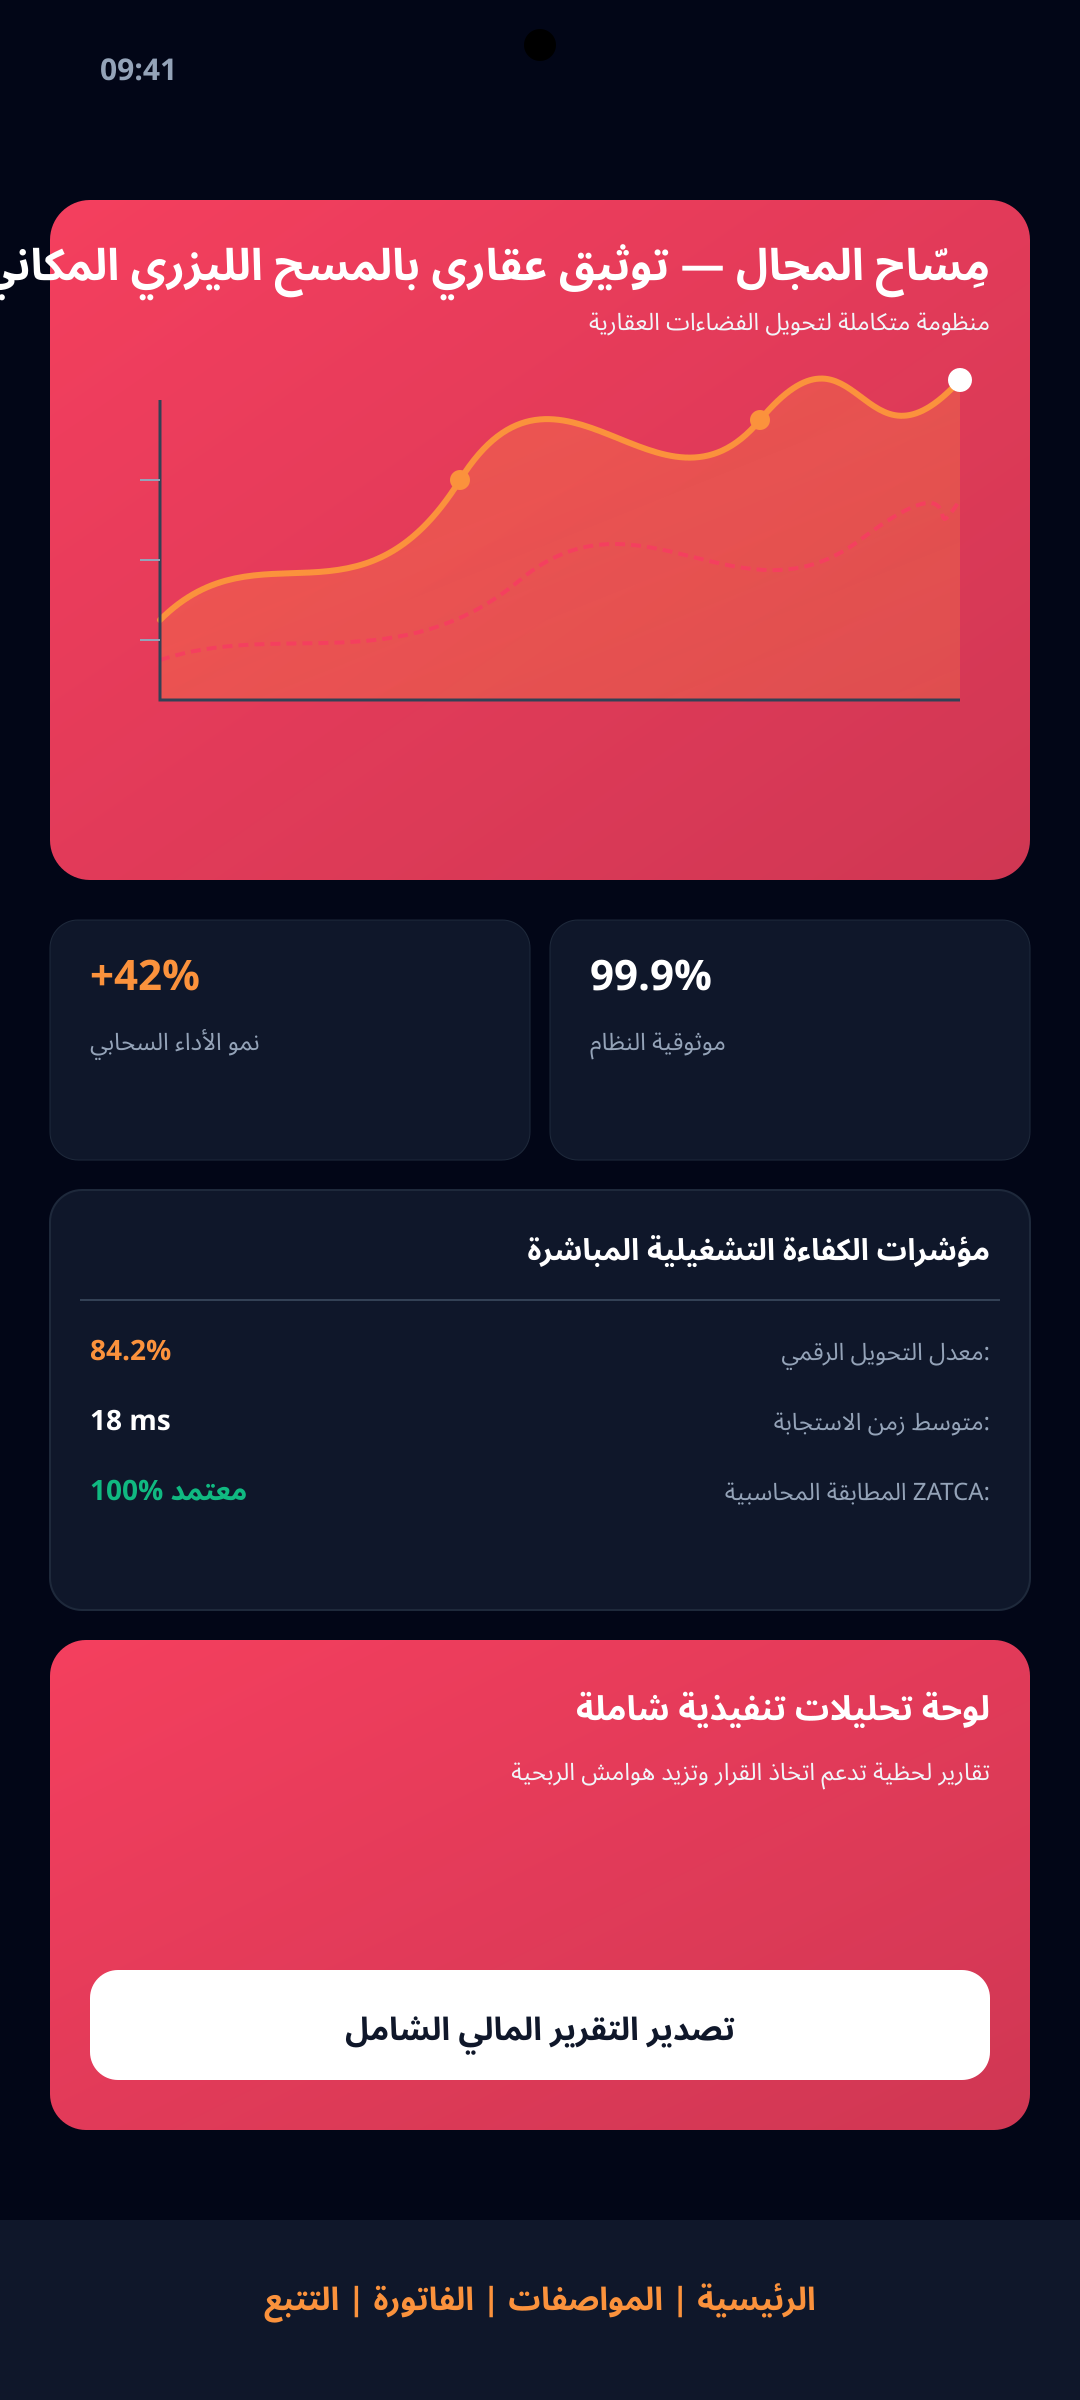
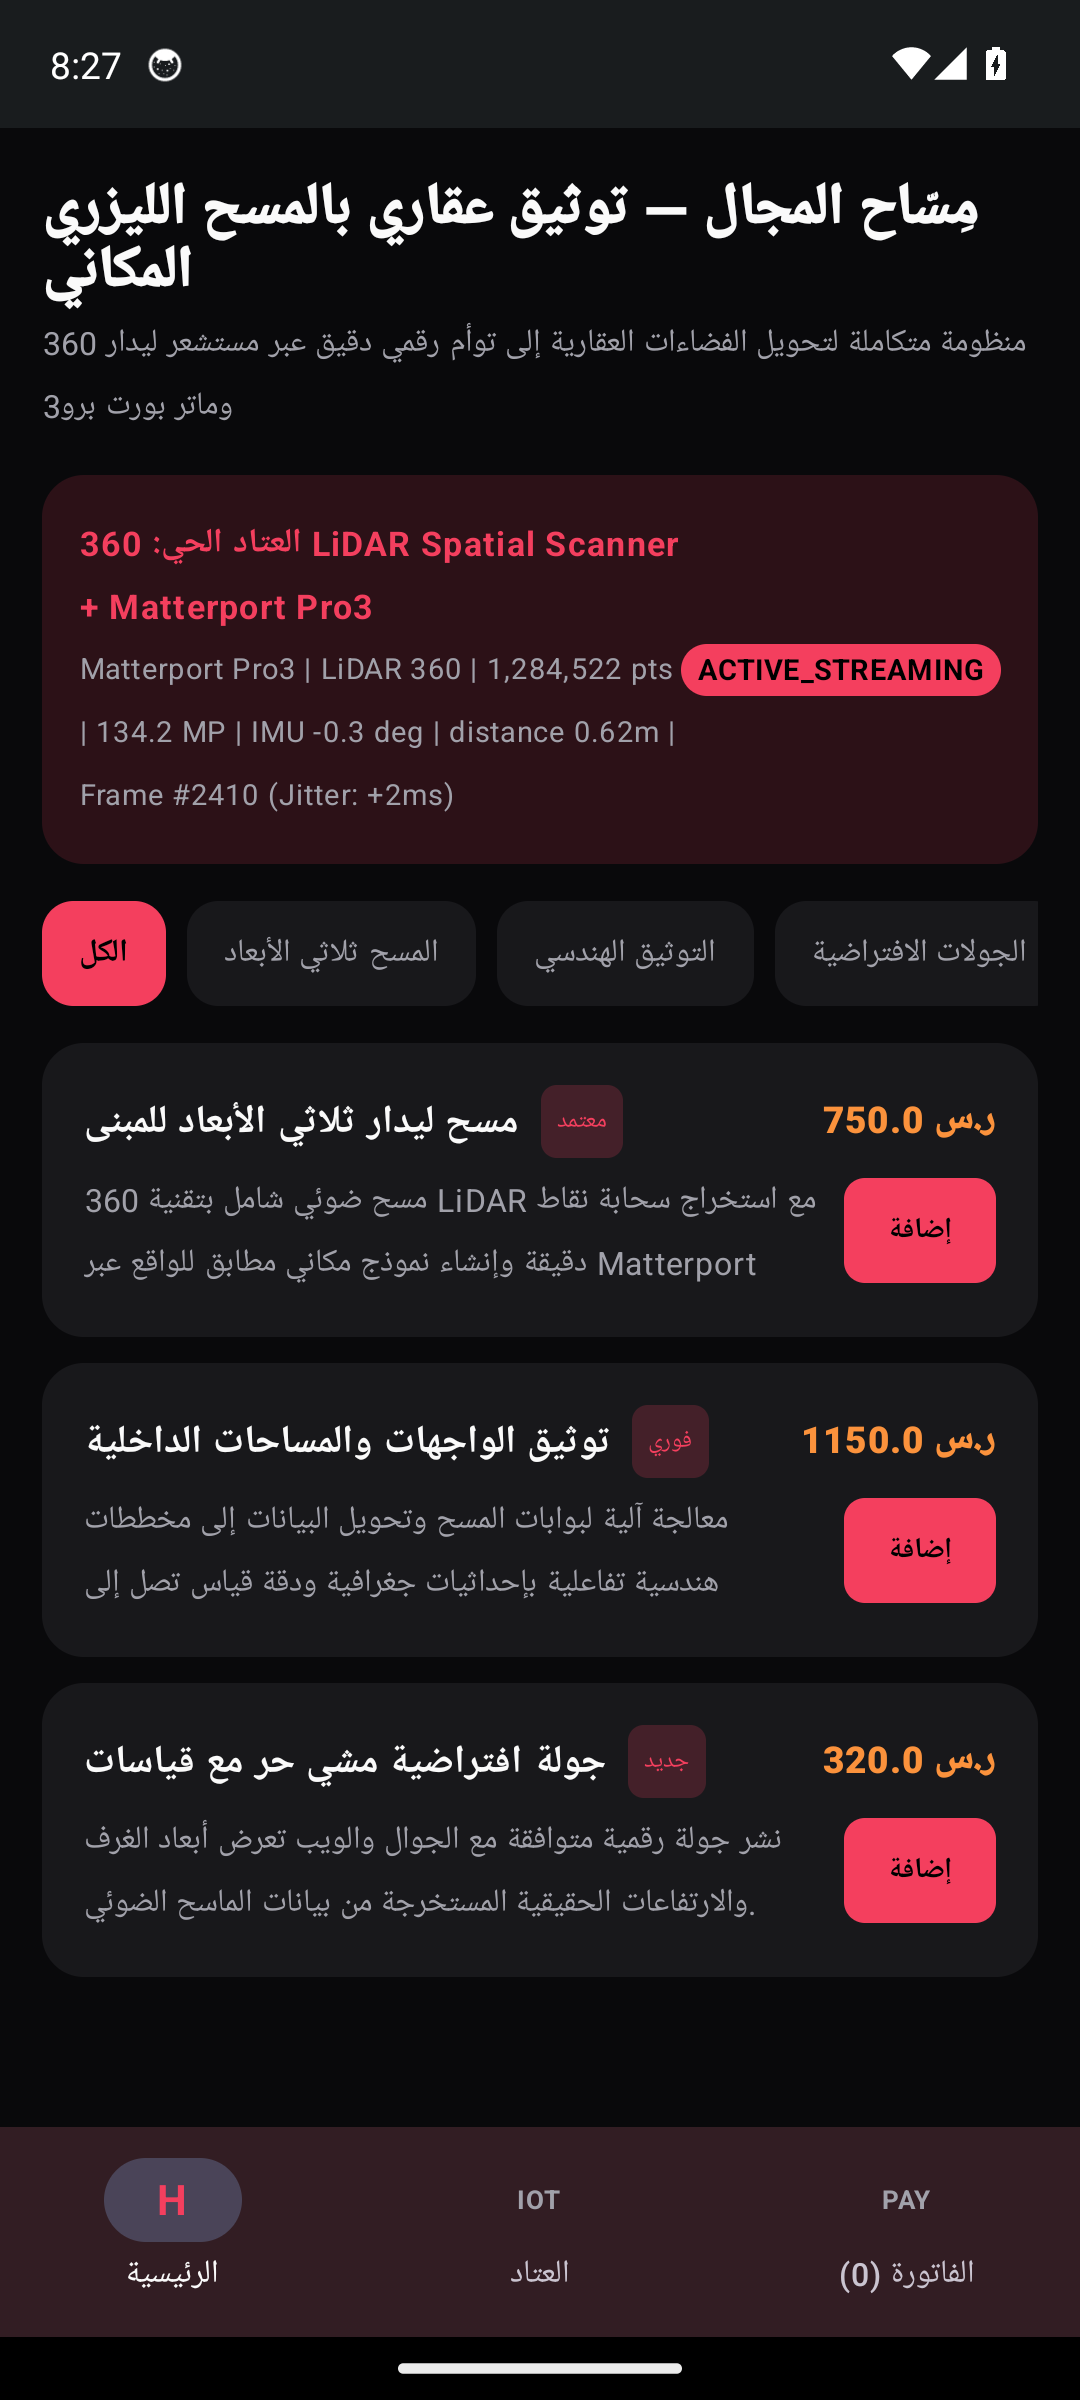
[SIDEKICK] Bind authentic Pixel 6 emulator screenshot for #1291003 (Iteration 110)

diff --git a/index.html b/index.html
@@ -263,7 +263,7 @@
           <svg class="w-3.5 h-3.5 text-teal-400" viewBox="0 0 20 20" fill="currentColor"><path fill-rule="evenodd" d="M4 4a2 2 0 012-2h8a2 2 0 012 2v12a1 1 0 01-1.581.814L10 14.197l-4.419 2.617A1 1 0 014 16V4z" clip-rule="evenodd"/></svg>
           المشاريع المعتمدة بـ SQL
         </div>
-        <div class="text-base md:text-lg font-black text-teal-300" id="totalVerifiedStat">354 تطبيقاً</div>
+        <div class="text-base md:text-lg font-black text-teal-300" id="totalVerifiedStat">432 تطبيقاً</div>
         <div class="text-[11px] text-slate-500">مسجلة ومفحوصة بسجل SQLite سحابي</div>
       </div>
 
